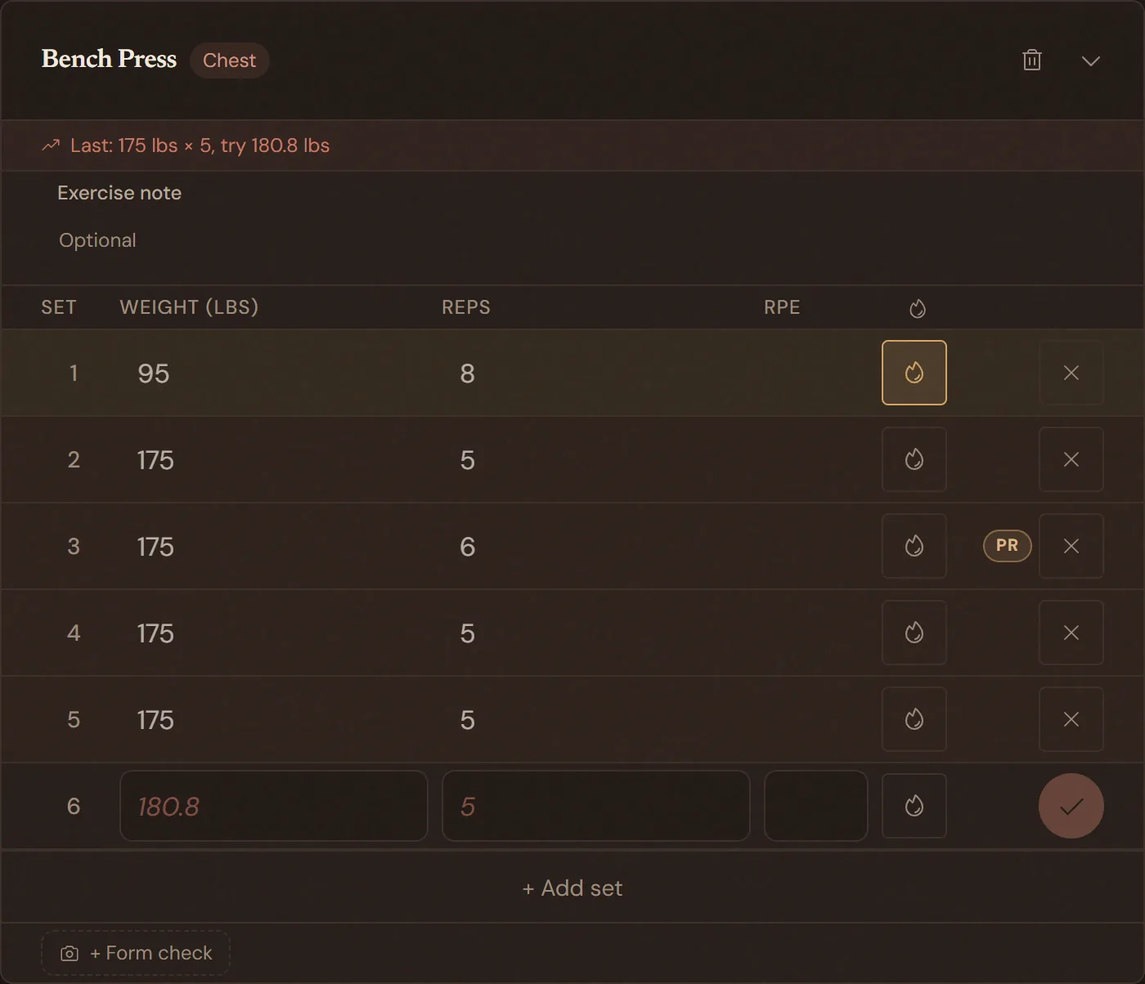
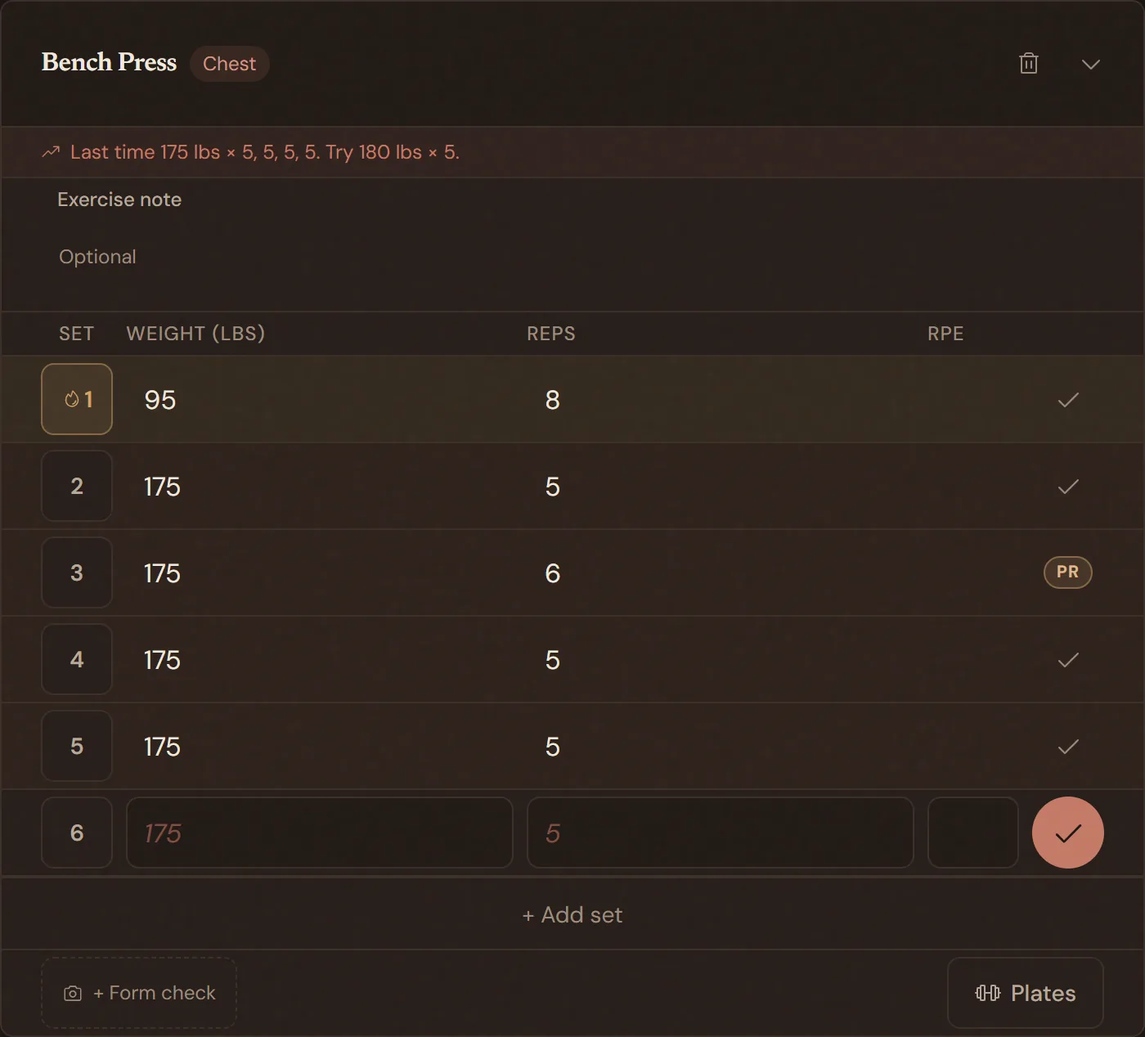
docs(jym): the gym-floor batch in the feature doc and the guide
JYM-FEATURES.md describes:
- the workout as a focus screen with Workout options;
- the rest timer and its account setting;
- the keypads, the comma decimal and a typed 0;
- the set number's sheet;
- warm-up sets and the Plates sheet;
- forgotten workouts;
- editing times, Repeat and Save as template on the summary, and the
  summary opened from history, the day view and search;
- home-screen shortcuts;
- Settings > Workouts.

The Jym guide:
- Log your sets no longer says the suggestion isn't filled in (the tick
  has logged it since one-tap sets), and it now covers the rest timer,
  the set number and editing.
- A new section, "Warm up and load the bar", has a Plates screenshot.
- Deload and Test, units, Exit and Save as template now point to
  Workout options.
- Finish explains forgotten workouts.
- Review past workouts covers View summary, Edit times and Repeat.
- Start a workout mentions the home-screen shortcuts.

The basics guide lists the Workouts settings as saved to the account.

Re-taken by hand from a local throwaway workout, light and dark:
session-sets (the new set rows) and save-template (the new dialog).
Added: plates.

diff --git a/jiro-ui/src/app/features/guide/jym/jym-guide.ts b/jiro-ui/src/app/features/guide/jym/jym-guide.ts
@@ -74,6 +74,7 @@ import { GUIDE } from '../shared';
           <li>On the <a routerLink="/jym">Jym</a> home page, select the play button on a split. You can also select <strong>Start</strong> on a split in <a routerLink="/jym/plan">Plan</a>.</li>
           <li>In <strong>Choose routine</strong>, pick the day you are training, or <strong>Freestyle (no routine)</strong>.</li>
           <li>For a workout with no plan, select <strong>Freestyle session</strong> on the Jym home page, or <strong>New session</strong> in <a routerLink="/jym/track">Track</a>.</li>
+          <li>With Jiro installed on an Android phone or a computer, press and hold (or right-click) its icon for <strong>Start workout</strong> and <strong>Resume workout</strong>. iPhones don't offer these shortcuts.</li>
         </guide-steps>
         <guide-tip>If you leave a workout without finishing it, it waits under <strong>In progress</strong> on the Jym home page until you resume or discard it.</guide-tip>
       </guide-section>
@@ -82,16 +83,30 @@ import { GUIDE } from '../shared';
         lead="The workout screen has a row for every set, and it times your rest between them.">
         <guide-steps>
           <li>A workout started from a split day or template already lists its exercises, with one row for each target set. In a freestyle session, select <strong>+ Add exercise</strong> first.</li>
-          <li>The faint numbers in an empty row are a suggestion: the heaviest weight from your last session plus a small step, and the reps you did then. A note above the rows shows what you lifted last time and the weight to try. For an exercise you have never logged, the row shows only the target reps.</li>
-          <li>Type the <strong>Weight</strong> and <strong>Reps</strong> you did. The suggestion is not filled in for you.</li>
-          <li>Optionally, enter an <strong>RPE</strong> from 1 to 10 for how hard the set felt, and select the flame button to mark a warm-up set.</li>
-          <li>Select the tick to log the set. If it beats your best for that exercise, it gets a <strong>PR</strong> badge. Warm-up sets never get one.</li>
-          <li>The rest timer starts in the bar at the top. Choose <strong>1m</strong>, <strong>1:30</strong>, <strong>2m</strong>, <strong>3m</strong> or <strong>5m</strong>, add <strong>+30s</strong>, or select the x to skip it. It beeps when your rest is over.</li>
-          <li>Use <strong>+ Add set</strong> for another set and <strong>+ Add exercise</strong> for another exercise. The x on a logged set removes it.</li>
+          <li>The faint numbers in an empty row are today's aim, worked out from your last workout. A note above the rows shows what you lifted last time and what to try. For an exercise you have never logged, the row shows only the target reps.</li>
+          <li>Type the <strong>Weight</strong> and <strong>Reps</strong> you did, or leave the aim as it is. A number keypad opens for each box.</li>
+          <li>Optionally, enter an <strong>RPE</strong> from 1 to 10 for how hard the set felt.</li>
+          <li>Select the tick to log what the row shows, so repeating a set is one tap. If it beats your best for that exercise, it gets a <strong>PR</strong> badge. Warm-up sets never get one.</li>
+          <li>The rest timer opens under the bar at the top. Select <strong>+30s</strong> for a longer rest this time, or <strong>Skip</strong>. It beeps when your rest is over.</li>
+          <li>Select a set's number to mark it as a warm-up or to remove it. To fix a logged set, select its weight or reps, change them and select <strong>Save</strong>.</li>
+          <li>Use <strong>+ Add set</strong> for another set and <strong>+ Add exercise</strong> for another exercise.</li>
         </guide-steps>
-        <guide-shot guide="jym" name="session-sets" [width]="1400" [height]="1204"
-          alt="Bench Press during a workout: a note from last time, a warm-up set of 95 lbs, four logged sets of 175 lbs with the 6-rep set marked PR, and a sixth row suggesting 180 lbs and 5 reps." />
+        <guide-shot guide="jym" name="session-sets" [width]="1400" [height]="1268"
+          alt="Bench Press during a workout: a note saying last time was 175 lbs for 5, 5, 5, 5 and to try 180 lbs, a warm-up set of 95 lbs marked with a flame, four logged sets of 175 lbs with the 6-rep set marked PR, a sixth row ready to log 175 lbs for 5, and a Plates button." />
         <guide-tip>A set is a PR when it is the heaviest weight you have logged for that exercise, or the same top weight for more reps. Warm-ups are left out on both sides: they never count as a PR and never raise the bar for one. Marking a PR set as a warm-up takes its badge away.</guide-tip>
+      </guide-section>
+
+      <guide-section id="warm-up-and-load-the-bar" title="Warm up and load the bar"
+        lead="Jym can plan your warm-up sets and tell you which plates go on each side of the bar.">
+        <guide-steps>
+          <li>Before you log an exercise's first set, select <strong>Add warm-up sets</strong> above its rows. It adds the bar for 10, then about half, 70% and 85% of your working weight for 5, 3 and 1, rounded down to weights you can load.</li>
+          <li>Log each warm-up with its tick, like any other set.</li>
+          <li>Select <strong>Plates</strong> under an exercise to see the plates for each side at the next set's weight, or type any weight. If your plates can't make it exactly, it offers the nearest weights you can load.</li>
+          <li>Set your bar weight and the plates you have in <a routerLink="/settings" fragment="workouts">Settings, Workouts</a>.</li>
+        </guide-steps>
+        <guide-shot guide="jym" name="plates" [width]="780" [height]="686"
+          alt="The Plates window for 225 lbs: a 45 plate and a 45 plate drawn on the bar, the words Each side: 45, 45, and a line saying On a 45 lbs bar with a Change bar and plates link." />
+        <guide-tip>The warm-up offer appears once an exercise has a working weight above the bar, typed or suggested from last time.</guide-tip>
       </guide-section>
 
       <guide-section id="add-notes-body-weight-and-form-checks" title="Add notes, body weight and form checks"
@@ -100,7 +115,7 @@ import { GUIDE } from '../shared';
           <li>Type in <strong>Session notes</strong> at the top for the whole workout, or in <strong>Exercise note</strong> under an exercise. Notes save when you leave the box.</li>
           <li>To record today's body weight, type it next to <strong>Body weight</strong> and select <strong>Log</strong>.</li>
           <li>To film your form, log at least one set of the exercise, then select <strong>+ Form check</strong> and choose a video or photo. You can add one clip per exercise in each workout. If the upload fails, select <strong>Retry</strong>.</li>
-          <li>To mark the workout as lighter or as a max attempt, select <strong>Deload</strong> or <strong>Test</strong> in the top bar instead of <strong>Normal</strong>.</li>
+          <li>To mark the workout as lighter or as a max attempt, select the <strong>Workout options</strong> button (three dots) in the top bar, then <strong>Deload</strong> or <strong>Test</strong> instead of <strong>Normal</strong>.</li>
         </guide-steps>
         <guide-tip>Deload sessions are left out of the next workout's suggestions and your series volume chart.</guide-tip>
       </guide-section>
@@ -112,18 +127,19 @@ import { GUIDE } from '../shared';
           <li>The summary shows your <strong>Duration</strong>, <strong>Volume</strong> and <strong>Work sets</strong> (warm-ups are not counted), any new PRs, and how your sets compare with <strong>Last time</strong>.</li>
           <li>Select <strong>Share workout</strong> to make an image of the summary to share or save, or <strong>Done</strong> to go back to Jym.</li>
         </guide-steps>
-        <guide-tip>To stop without finishing, select <strong>Exit</strong>. <strong>Save &amp; Exit</strong> keeps your sets so you can resume later, and <strong>Discard session</strong> deletes the workout.</guide-tip>
-        <p>A finished workout is closed for new sets. If you open its old workout link, Jym shows it in <a routerLink="/jym/track">Track</a> instead, with every set you logged.</p>
+        <guide-tip>To stop without finishing, open <strong>Workout options</strong>. <strong>Leave for now</strong> keeps the workout open so you can resume it later, and <strong>Discard workout</strong> deletes it.</guide-tip>
+        <p>Forgot to finish? After 3 hours with no new set, Jym offers to finish the workout at your last set, so it doesn't run on for days. The offer shows in the workout, on the Jym home page, and when you start your next one.</p>
+        <p>A finished workout is closed for new sets. If you open its old workout link, Jym shows its summary instead.</p>
       </guide-section>
 
       <guide-section id="save-and-reuse-a-template" title="Save and reuse a template"
         lead="A template keeps a workout's exercises so you can start the same workout again.">
         <guide-steps>
-          <li>During a workout with at least one logged set, select the save button in the top bar, labelled <strong>Save as template</strong>.</li>
+          <li>During a workout with at least one logged set, open <strong>Workout options</strong> and select <strong>Save as template</strong>. A finished workout's summary has the same button.</li>
           <li>Enter a name and select <strong>Save template</strong>.</li>
           <li>To use it, select the template under <strong>Templates</strong> on the <a routerLink="/jym">Jym</a> home page, or select <strong>Start</strong> on it in <a routerLink="/jym/plan" [queryParams]="{ tab: 'templates' }">Plan, Templates</a>.</li>
         </guide-steps>
-        <guide-shot guide="jym" name="save-template" [width]="840" [height]="554"
+        <guide-shot guide="jym" name="save-template" [width]="840" [height]="584"
           alt="The Save as template window with the name Push day A, and Cancel and Save template buttons." />
       </guide-section>
 
@@ -148,7 +164,8 @@ import { GUIDE } from '../shared';
         lead="Every finished workout is listed in Track, newest first.">
         <guide-steps>
           <li>Open <a routerLink="/jym/track">Track</a>. Each workout shows its date, day, sets, time and volume.</li>
-          <li>Select a workout to see every set, with PR badges and warm-up sets marked, its notes and any form check clips. <strong>See this day</strong> opens everything else you logged that day.</li>
+          <li>Select a workout to see every set, with PR badges, warm-ups, RPE and exercise notes, plus its notes and any form check clips. <strong>View summary</strong> opens its summary, and <strong>See this day</strong> opens everything else you logged that day.</li>
+          <li>On a summary, <strong>Edit times</strong> fixes when the workout started or finished, as long as the times still include every set you logged. <strong>Repeat workout</strong> starts it again with the same exercises.</li>
           <li>To download your workouts as a spreadsheet, optionally choose <strong>From</strong> and <strong>To</strong> dates, then select <strong>Export CSV</strong>.</li>
         </guide-steps>
         <guide-shot guide="jym" name="track-sessions" [width]="1600" [height]="1600"
@@ -201,7 +218,7 @@ import { GUIDE } from '../shared';
           <li>Open <a routerLink="/settings">Settings</a>.</li>
           <li>Under <strong>Preferences</strong>, choose <strong>Pounds (lbs)</strong> or <strong>Kilograms (kg)</strong> for <strong>Weight unit</strong>. It saves straight away.</li>
         </guide-steps>
-        <guide-tip>During a workout, the <strong>lbs</strong> and <strong>kg</strong> buttons in the top bar change the same setting.</guide-tip>
+        <guide-tip>During a workout, <strong>Units</strong> in <strong>Workout options</strong> changes the same setting.</guide-tip>
       </guide-section>
 
     </guide-page>

diff --git a/jiro-ui/src/app/features/guide/basics/basics-guide.ts b/jiro-ui/src/app/features/guide/basics/basics-guide.ts
@@ -108,7 +108,7 @@ import { GUIDE } from '../shared';
         </guide-steps>
         <guide-shot guide="basics" name="settings-preferences" [width]="1280" [height]="1068"
           alt="The Preferences card in Settings: Weight unit set to Pounds (lbs), the Timezone search box above a list set to America/New York (UTC-04:00) with a Use this device's timezone button, and Currency set to USD (US dollar)." />
-        <p>Each choice saves as soon as you make it; there is no Save button. Units, timezone, currency and colour theme are saved to your account. If a change cannot be saved (for example, before you have verified your email), Settings says why under the choices and puts the old value back. Dark mode is remembered on each device, so you can have it on your phone and off on your computer.</p>
+        <p>Each choice saves as soon as you make it; there is no Save button. Units, timezone, currency, colour theme and the <strong>Workouts</strong> settings (rest timer, bar weight and plates) are saved to your account. If a change cannot be saved (for example, before you have verified your email), Settings says why under the choices and puts the old value back. Dark mode is remembered on each device, so you can have it on your phone and off on your computer.</p>
         <guide-tip>You can also switch dark mode from the account menu: select your name at the bottom of the sidebar, or the round button with your initial at the top right on a phone, then <strong>Dark mode</strong>.</guide-tip>
       </guide-section>
 

diff --git a/docs/JYM-FEATURES.md b/docs/JYM-FEATURES.md
@@ -56,28 +56,39 @@ A **series** ties a split to a time window (weeks, sessions count, or open-ended
 ### Starting a Session
 - **Routine session**: tap "Start" next to a routine on the hub. The player pre-populates exercise blocks and set rows from the routine's targets. The plan comes from the server, so the workout can be resumed on any device.
 - **Freestyle session**: tap "Freestyle session" for an open canvas; add any exercises you want.
-- **A workout is already open**: every start button asks whether to resume it, start a new one anyway, or cancel. A double tap starts one workout.
+- **A workout is already open**: every start button asks whether to resume it, start a new one anyway, or cancel. A double tap starts one workout. A forgotten one gets a different choice (see Forgotten workouts).
 
-### Session Type Toggle
-Switch between **Normal**, **Deload**, and **Test** at any time during the session using the toggle in the sticky header.
-- **Deload**: sets in a deload session are never PRs and don't count towards your best, so they can't raise the bar. Switching a session's type re-rates its PRs.
-- **Test**: use this to find new 1RMs.
+### The Screen
+The workout is a focus screen, like cook mode: on a phone the bottom nav is hidden, and the sticky bar is one row with the timer, **Workout options** (⋯) and **Finish**. Every control in the player is at least 44 px.
+
+### Workout Options
+The ⋯ button opens a sheet (a bottom sheet on a phone) with:
+- **Type**: Normal, Deload or Test. Deload sets are never PRs and don't count towards your best, and next time's suggestion skips deload and test workouts. Changing a workout's type re-rates its PRs.
+- **Units**: lbs or kg, the account's unit (the same setting as in Settings). Changing it converts the whole workout: logged sets are shown from their stored kg, typed sets and suggestions are converted.
+- **Rest timer**: 1m, 1:30, 2m, 3m or 5m (see Rest Timer).
+- **Save as template**, **Leave for now** (the workout stays open; resume it from the Jym home) and **Discard workout** (asks first, naming the logged sets).
 
 ### Logging Sets
-Each exercise block shows a set table with columns: **Set #**, **Weight**, **Reps**, **RPE**, **W (Warm-up)**, and a log/delete action.
+Each exercise block shows a set table with columns: **Set**, **Weight**, **Reps**, **RPE**, and the log button.
 
 - Tap ✓ to log the row. Typed values win; an untouched row logs its ghost values (today's aim), so repeating a set is one tap.
-- **RPE** (Rating of Perceived Exertion, 1–10) is optional.
-- Ghost values before the first set of the day are today's aim (see below); after it, a new row's ghosts are the set just lifted.
+- The fields bring up a number keypad: decimal for weight, whole numbers for reps and RPE. A comma counts as a decimal point ("102,5"), and a typed 0 logs (bodyweight lifts).
+- **RPE** (Rating of Perceived Exertion, 1 to 10) is optional.
+- Ghost values before the first set of the day are today's aim (see below). A new row's ghosts are the last logged working set, never a warm-up.
 - A saved set is tinted. A **PR** badge appears if the set is a personal record.
-- Tap a logged value to correct it: ✓ saves, × cancels (Escape on desktop). Delete a logged set with the trash icon.
+- Tap a logged value to correct it: the row shows **Cancel** and **Save** under it (Enter on reps or RPE also saves; Escape cancels on desktop).
 - In a routine, the block shows its plan ("Plan 3 × 8"), and a logged working set below the planned reps is marked.
 
+### The Set Number
+Tap a set's number for its sheet: **Mark as warm-up** (or **Make it a working set**) and **Remove set**. Removing a logged set deletes it; removing an unlogged row just drops it. The rows renumber either way.
+
 ### Warm-up Sets
-Each set row has a **W** toggle button. Tap it to mark the set as a warm-up.
-- Warm-up sets are highlighted in amber.
-- Warm-up sets are **excluded from PR detection** — a warm-up set can never trigger a 🏆 badge, and warm-up weights are not counted when checking against your all-time max.
-- The warm-up flag is persisted and restored if you leave and return to the session.
+- Warm-up rows show a flame by the set number and an amber tint.
+- Warm-up sets are **excluded from PR detection**, from volume and from set counts.
+- **Add warm-up sets**: before an exercise has anything logged, a working weight above the bar (typed or suggested) gets an offer that previews the ramp: the bar for 10, then about 50%, 70% and 85% for 5, 3 and 1, each rounded down to a weight your plates can load (225 lb: 45 × 10, 110 × 5, 155 × 3, 190 × 1). It inserts them as typed warm-up rows above the working sets, one tap each to log.
+
+### Plates
+Each exercise's **Plates** button shows the plates for each side of the bar for any weight (it starts at the next working set's weight), drawn as a small stack and written out. When your plates can't make the weight exactly, it offers the nearest two you can load. It uses the bar and plate sizes in Settings > Workouts. The maths is in `plates.ts` (fewest plates, covered by `npm run test:unit`).
 
 ### Exercise Notes
 Each exercise block has a subtle text area above the set table for a free-text note specific to that exercise in this session (e.g. "felt tight in left shoulder, went lighter").
@@ -98,18 +109,13 @@ Every exercise with history shows one line above its sets: what you did last tim
 - The line is hidden once all sets are saved.
 
 ### Rest Timer
-After every logged set, a rest timer starts automatically in the sticky header bar.
-- Default duration: **90 seconds**.
-- Change duration on the fly with the preset chips: 1m, 1:30, 2m, 3m.
-- The bar turns green and plays a double-beep when rest is done.
-- Skip the timer early with the ✕ button.
-- The timer collapses automatically 3 seconds after finishing.
-
-### Units
-The kg/lbs toggle in the session bar converts the whole workout: logged sets are shown from their stored kg, typed sets and suggestions are converted.
+After every logged set, a rest timer opens under the sticky bar.
+- It runs for the account's rest length (90 seconds unless changed in Workout options or Settings).
+- **+30s** lengthens this rest only; the next one starts at the usual length again.
+- **Skip** ends it early. When rest is done it turns green, beeps and vibrates, then closes after 3 seconds.
 
 ### Unlogged work
-Sets you typed but haven't ticked, exercises you added and plan exercises you removed are kept on this device until the workout is finished or discarded, so a reload or leaving the page loses nothing.
+Every unlogged row (typed or not, inserted warm-ups included), exercises you added and plan exercises you removed are kept on this device until the workout is finished or discarded, so a reload or leaving the page loses nothing.
 
 ### Body Weight
 Log today's body weight directly from the session player without leaving the workout. The weight is saved with today's date and syncs to the body weight log.
@@ -117,14 +123,23 @@ Log today's body weight directly from the session player without leaving the wor
 ### Session Notes
 A session-level notes field sits at the top of the player. Saves on blur.
 
-### Finishing or Exiting
+### Finishing or Leaving
 - **Finish**: stamps `ended_at` and opens the workout summary. If a set has weight and reps typed but isn't ticked, Finish first asks: log it and finish, skip it, or go back.
-- **Save & Exit**: leaves the session open so you can return later. The in-progress session appears on the Jym hub.
-- **Discard**: permanently deletes the session and all its sets.
+- **Leave for now** and **Discard workout** are in Workout options.
+
+### Forgotten Workouts
+A workout is **stale** when it's open and nothing has been logged for 3 hours (or since it started). It is offered a finish at its **last set**, by the server's log time, so its duration is the training and not the days after (`stale-workout.ts`):
+- **The player** shows a banner: "This workout started Mon 28 Sep, 7:30 PM and wasn't finished. Your last set was at 8:42 PM." with **Finish at 8:42 PM** or **Keep going**; with nothing logged, **Discard it**.
+- **The Jym home** card says when its last set was and leads with **Finish**. Past a day, "Started" is a date, not hours ago.
+- **Starting another workout** asks "Last workout not finished": **Finish it and start** (or **Discard it and start** when empty), **Resume it**, or Cancel.
 
 ### Workout Summary
-At `/jym/sessions/:id/summary`, built by the server (`GET /jym/sessions/:id/summary`), so a reload keeps it and its numbers match history.
-- The routine name under "Workout complete", then duration, volume and work sets (warm-ups left out) and the number of lifts that set a record.
+At `/jym/sessions/:id/summary`, built by the server (`GET /jym/sessions/:id/summary`), so a reload keeps it and its numbers match history. Finish, history ("View summary"), the day view and search all open it, and **Done** returns where you came from.
+- The routine name under "Workout complete", when it ran ("Mon 28 Sep, 7:30 PM to 8:42 PM"), then duration, volume and work sets (warm-ups left out) and the number of lifts that set a record.
+- **Edit times** changes a finished workout's start or end (`PATCH /jym/sessions/:id/times`). The end is after the start, not in the future and at most 24 hours later, and the times include every logged set (a minute of slack, since the fields have no seconds). PR flags don't move: they follow the order sets were logged.
+- **Repeat workout** starts a normal workout of the same routine with the same extra exercises, leaving out routine exercises this one skipped; a freestyle repeat has the same exercises in the same order.
+- **Save as template** saves its exercises, sets and reps.
+- An open workout's summary says it isn't finished and offers **Resume workout**.
 - **Muscle groups**: each group's share of the working sets, so bodyweight work counts.
 - **Session highlights**: each lift's best set, which is its best record set if it set one, otherwise its highest estimated 1RM (bodyweight lifts: most reps).
 - **Last time**: the lift's best set from its latest finished normal workout before this one, with the change in estimated 1RM. A record needs no change shown, and a deload isn't compared.
@@ -142,7 +157,7 @@ Sessions at `/jym/track?tab=sessions`, 50 at a time with "Show older sessions", 
 - Total volume (weight × reps over working sets, displayed in your preferred unit)
 - Muscle groups trained
 
-Click a session to see the full read-only detail — same layout as the player with inputs replaced by static values.
+Click a session to see its sets by exercise (with RPE and the exercise note), its notes and form-check clips, and links to **View summary** (or **Resume workout** for an open one) and **See this day**. An open workout is marked "In progress".
 
 ---
 
@@ -184,9 +199,10 @@ The home screen for the Jym module. Contains:
 Links to the exercise library, session history, PR wall, body weight log, and series list.
 
 ### In Progress and Up Next
-- A workout that was started but not finished is the first thing on the page, with **Resume** and discard.
+- A workout that was started but not finished is the first thing on the page, with **Resume** and discard; a forgotten one leads with **Finish** (see Forgotten workouts).
 - Otherwise **Up next** names the next day of the most recently started active series: **Start** opens that day in the series, **Other day** picks another.
 - Active series cards show **Next: (day)**, and their Start opens that day directly.
+- **Home-screen shortcuts**: a long press on the installed app's icon offers **Start workout** (`/jym?go=start`: Up next, else freestyle) and **Resume workout** (`/jym?go=resume`). Android and desktop only; iPhone doesn't support web app shortcuts.
 
 ### Time for a Lighter Week?
 A card that suggests a deload (`deload-rule.ts`, covered by `npm run test:unit`):
@@ -222,6 +238,8 @@ At `/jym/bodyweight`: a chart and table of body weight entries over time.
 ## Settings
 
 The app respects a global **unit preference** (kg / lbs). All weights entered and displayed throughout Jym respect this setting. Storage is always in kg.
+
+**Settings > Workouts** holds the rest timer length (`rest_seconds`) and, per unit, the bar weight and the plate sizes you have (`plates`), used by the Plates sheet and warm-up sets. Defaults: a 45 lb bar with 45, 35, 25, 10, 5 and 2.5 lb plates; a 20 kg bar with 25, 20, 15, 10, 5, 2.5 and 1.25 kg plates.
 
 ---
 
